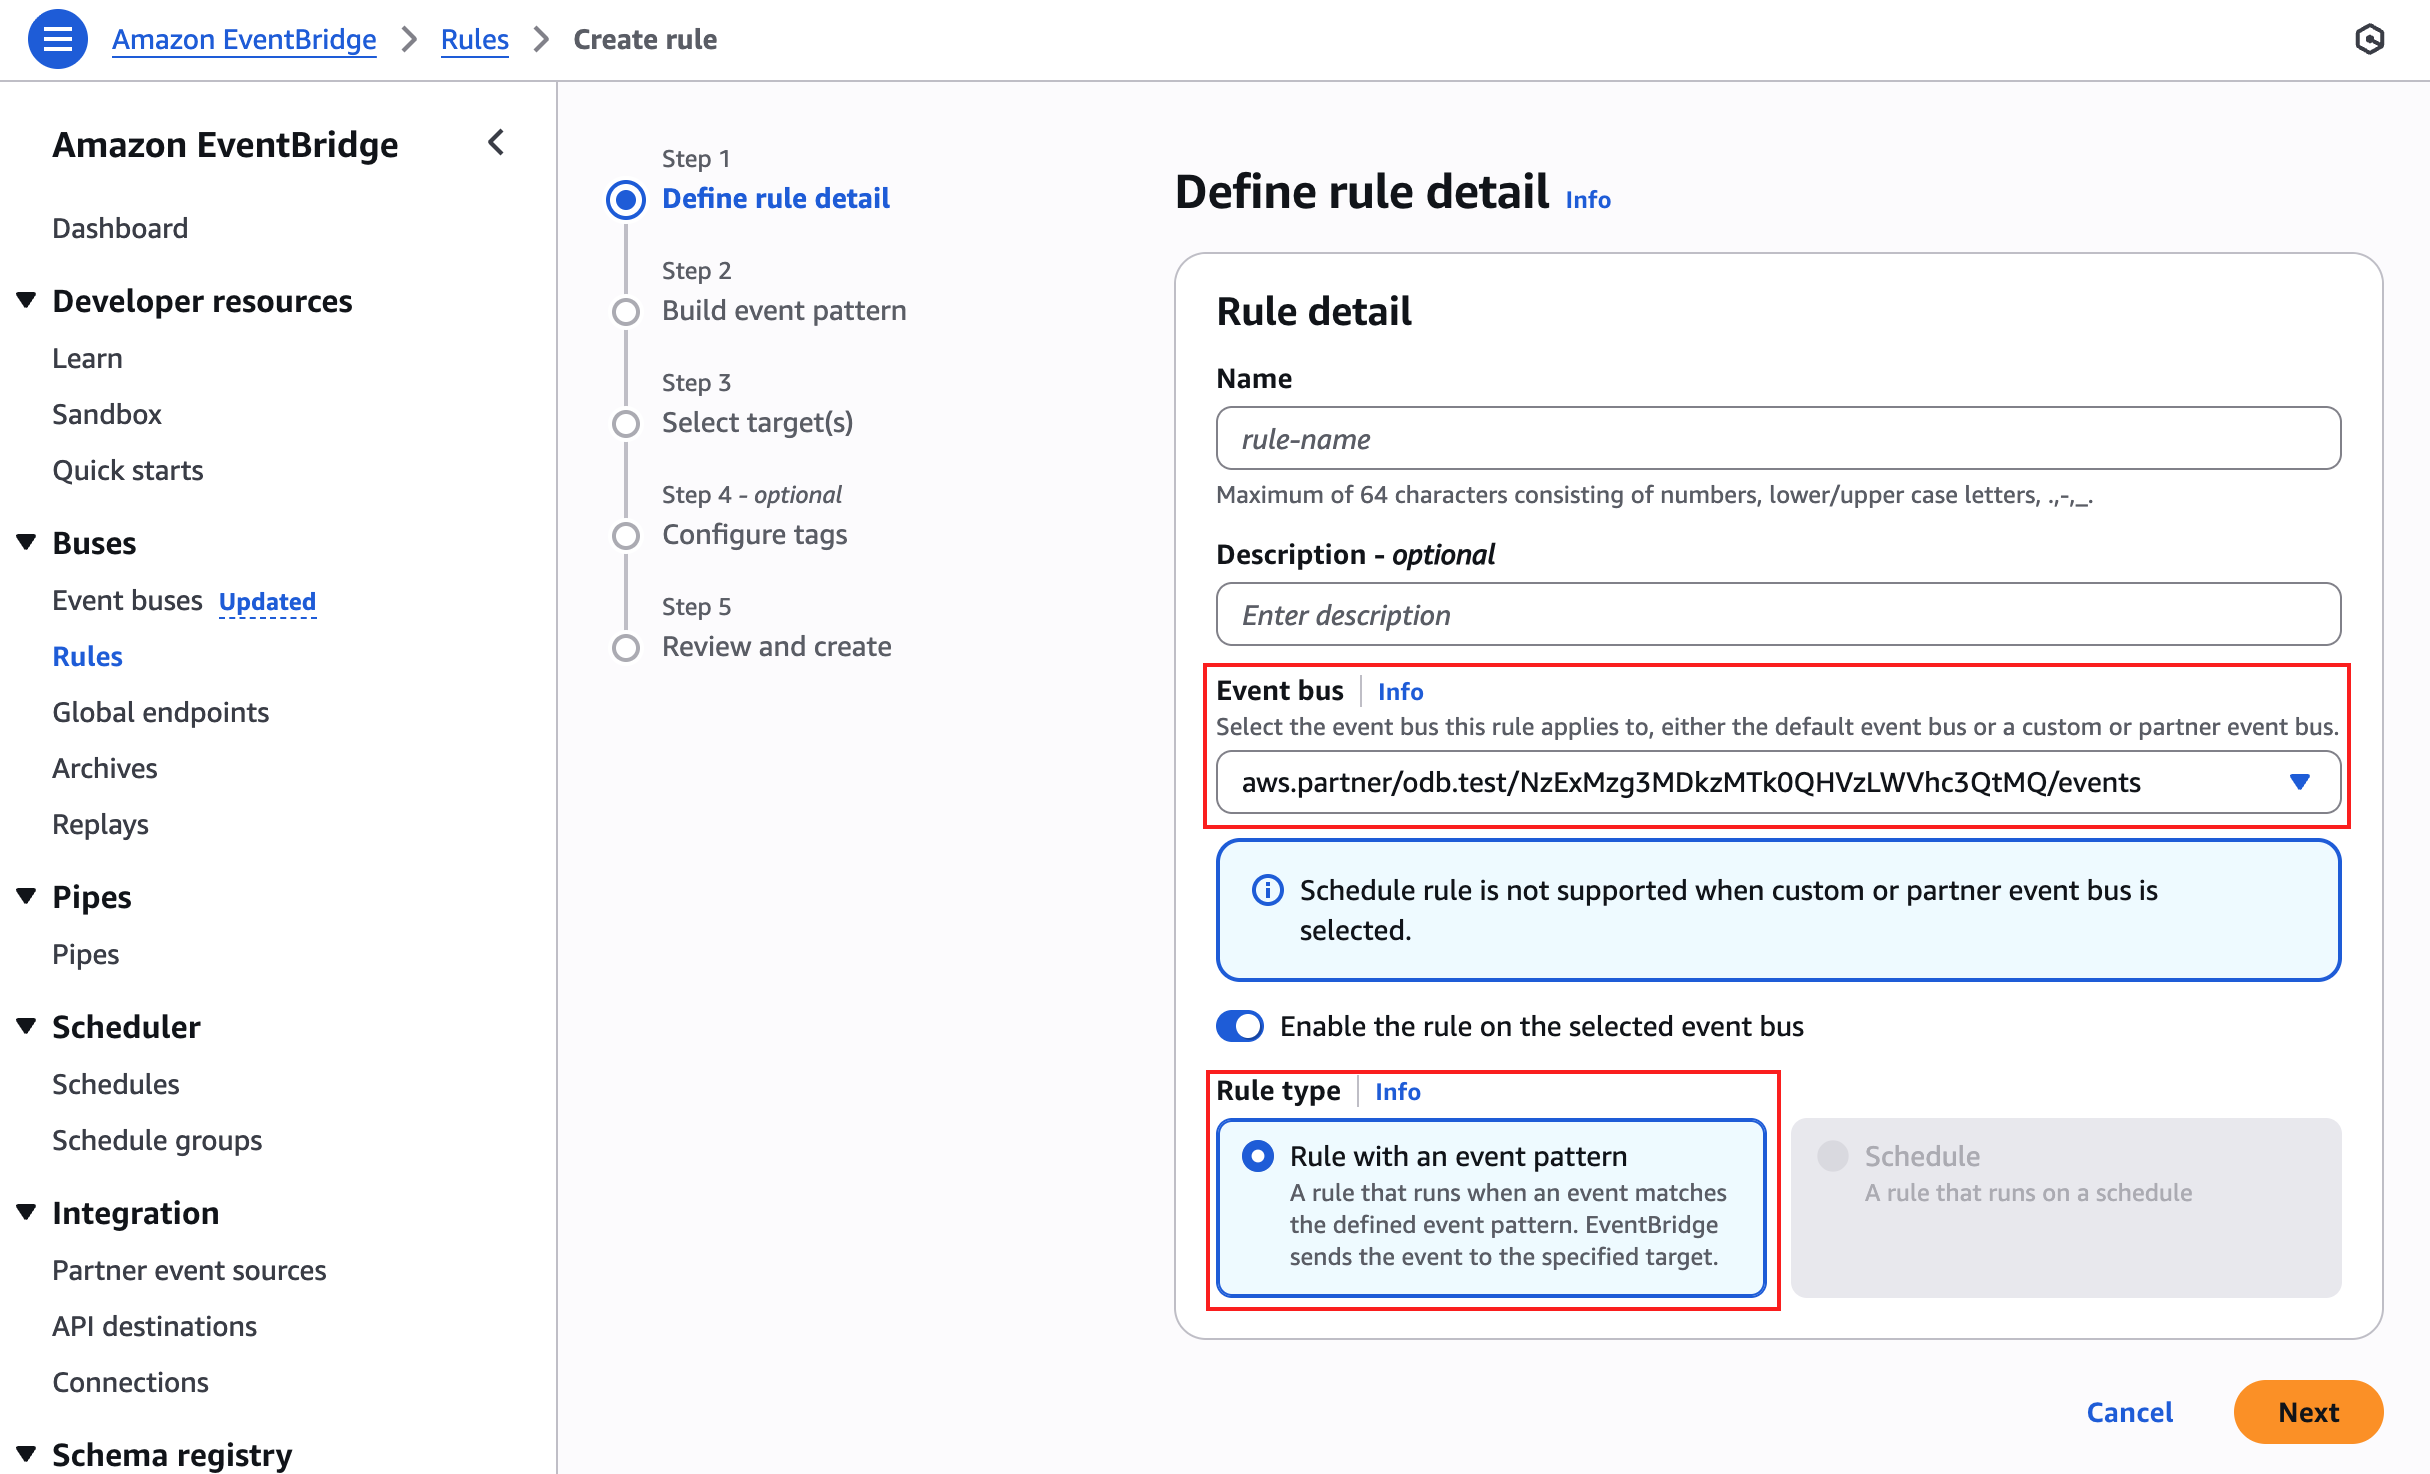
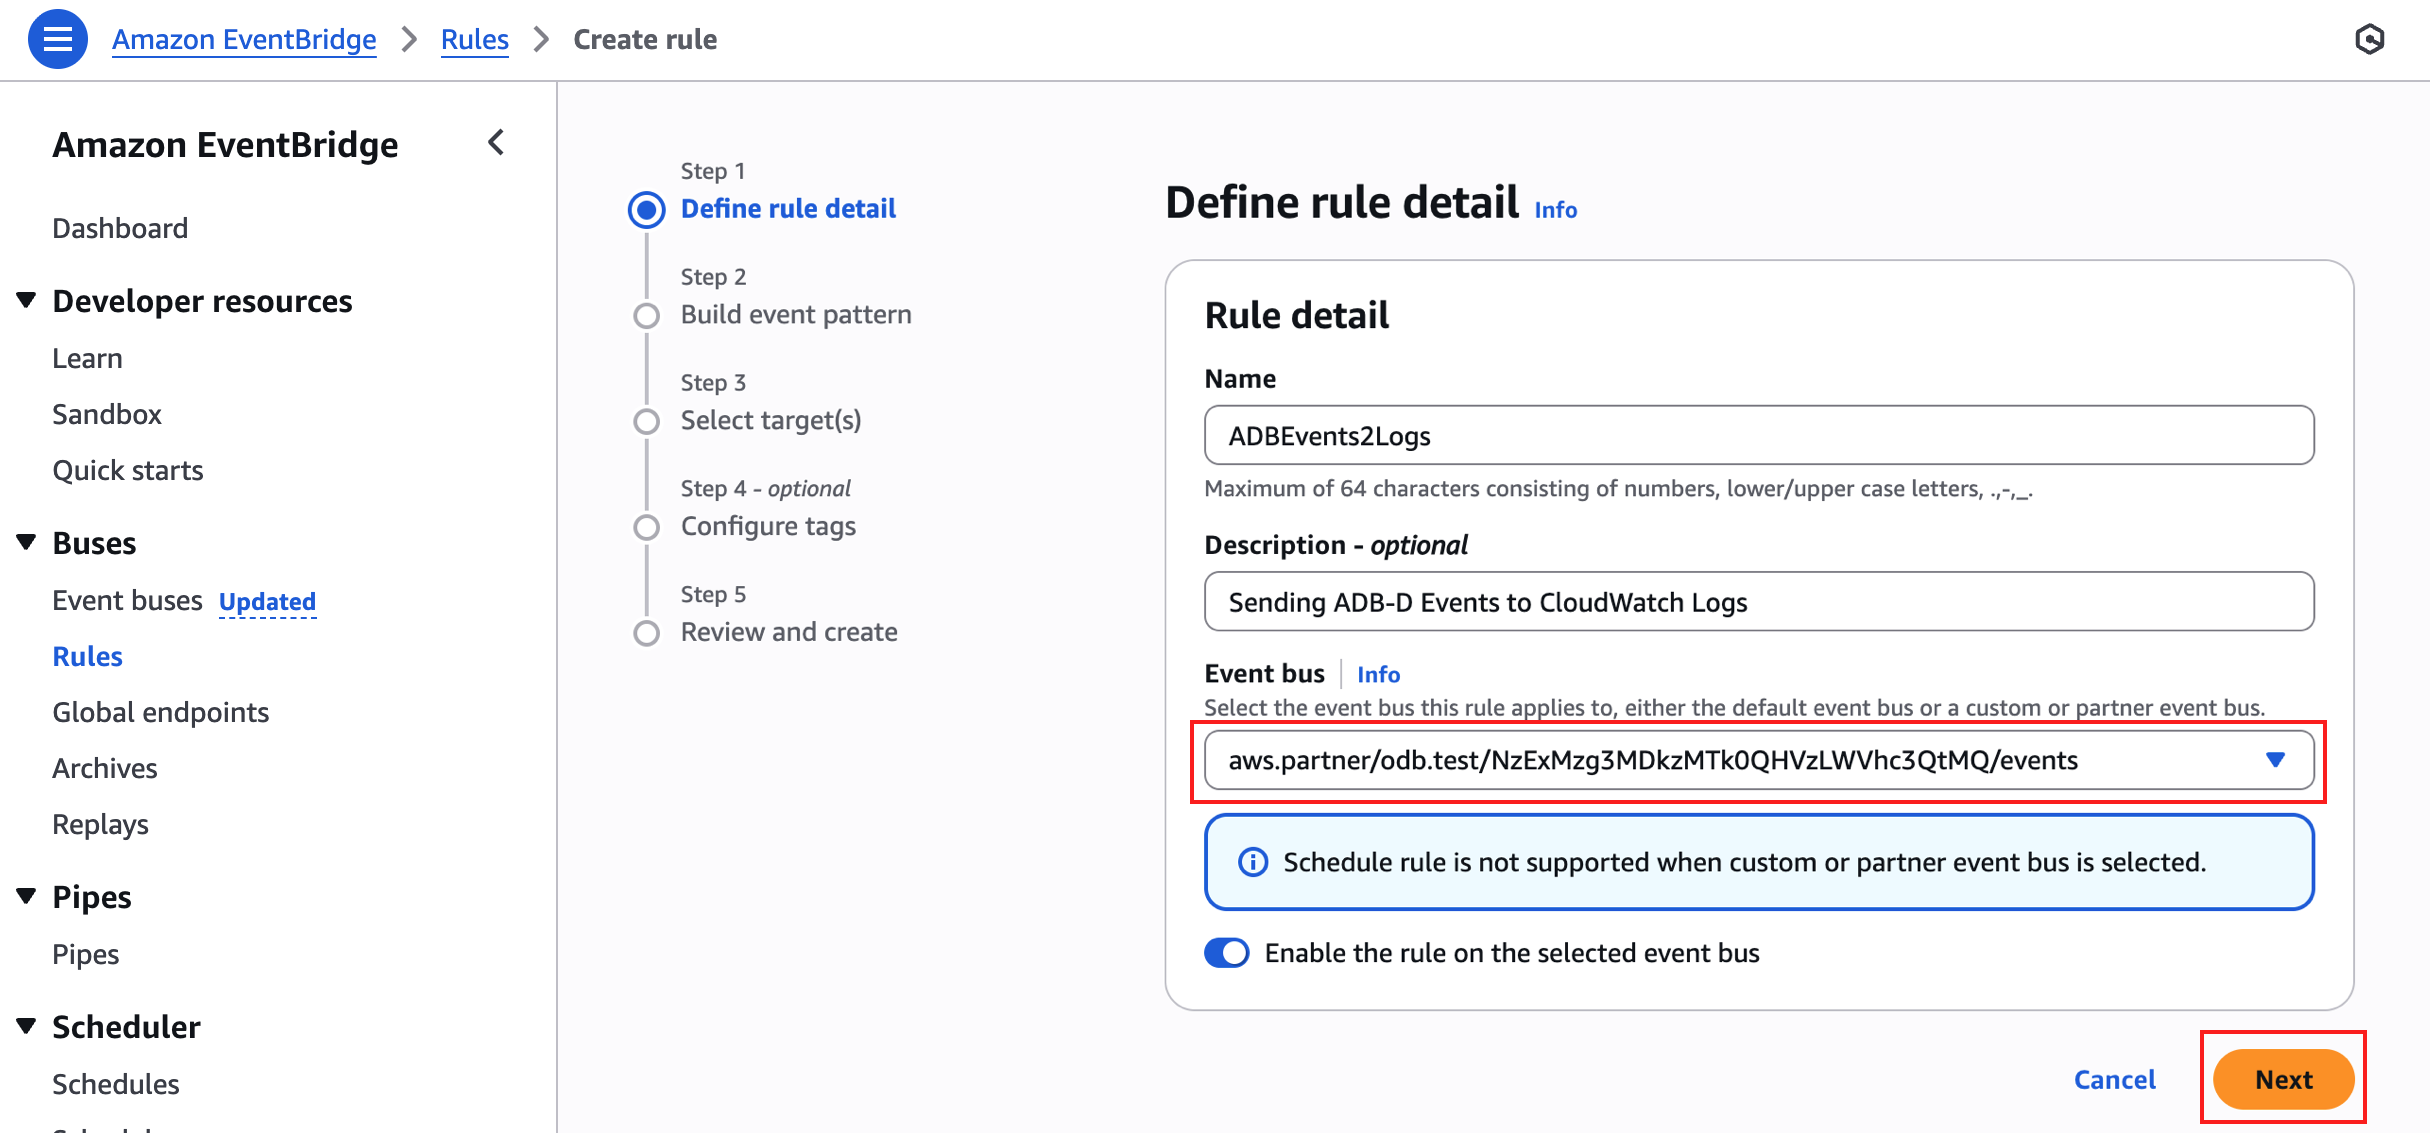
Updated event capture to logs section

diff --git a/observability/observe-adb.md b/observability/observe-adb.md
@@ -151,7 +151,7 @@ Beyond metrics, your database emits important lifecycle and state-change events.
 
 ![This image shows the result of performing the above step.](./images/4_3.png " ")
 
-2. Create a new rule that listens for events from the `aws.partner/odb` source.
+2. Create a new rule that listens for events from the `odb` event bus.
 
 ![This image shows the result of performing the above step.](./images/4_4.png " ")
 
@@ -159,13 +159,21 @@ Beyond metrics, your database emits important lifecycle and state-change events.
 
 ![This image shows the result of performing the above step.](./images/4_7.png " ")
 
+Select `AWS services`, `Oracle Database@AWS` and `All Events` in the drop downs. Click on `Edit pattern`.
+
 ![This image shows the result of performing the above step.](./images/4_8.png " ")
 
-4. Configure **AWS CloudWatch Logs** as the target for the rule.
+Enter a custom event pattern in JSON format with the same event bus and the autonomous database service prefix (`com.oraclecloud.databaseservice.autonomous`)
+
+![This image shows the result of performing the above step.](./images/4_5.png " ")
+
+4. Configure **AWS CloudWatch Logs** as the target for the rule (here we create a new log group but you can also choose an existing one if available).
 
 ![This image shows the result of performing the above step.](./images/4_10.png " ")
 
 ![This image shows the result of performing the above step.](./images/4_11.png " ")
+
+The final screen before rule creation should look like this:
 
 ![This image shows the result of performing the above step.](./images/4_12.png " ")
 
